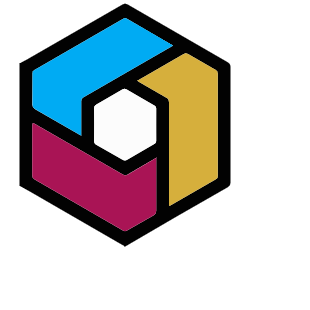
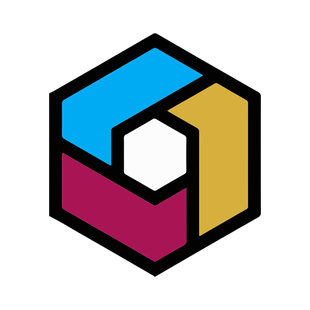
Store tile: the mark was in the corner of its canvas
The reader opened the file and saw it: spintax-mark-310.png had 212x244
of ink in a 310x310 canvas with margins L19 R79 T3 B63 -- the mark at the
top left, most of the bottom right empty. That file is what make-msix.py
builds the 310x310 and 310x150 tiles from, so the published package
carries an off-centre tile.

Only this file. spintax-mark-180.png, which the .ico comes from, is
centred, and measuring the .ico frames confirmed it: alpha centroid dead
centre in all thirteen. So the taskbar complaint earlier today and this
one look alike and are unrelated -- that one was Windows drawing a
smaller frame in the corner of a bigger cell, this one is our artwork
sitting in the corner of its own canvas.

Re-rendered from the vendored vector rather than nudged as pixels, at
twice the size and resampled down, so the tile is sharp: ink 212x244 kept
as it was, centred, margins L49 R49 T33 B33.

It reaches the Store with the next package, since tiles are generated at
submission time. Recorded in release-validation.md so the shipped state
is not mistaken for the corrected one.

Suite 8198 checks, 0 failed.

diff --git a/docs/TODO.md b/docs/TODO.md
@@ -151,7 +151,15 @@ is a deliberate state and not a backlog of things anyone forgot.
    session variables and are not saved with the document — the dialog says so, and so does the
    help.
 
-8. **The help got a document about the PRODUCT**, done 2026-08-06, and it is now the first
+8. **The Store tile was off-centre**, corrected 2026-08-06. `spintax-mark-310.png` — the file
+   `make-msix.py` builds the `310x310` and `310x150` tiles from — had the mark at the top left of
+   its canvas: 212×244 of ink in 310×310, margins L19 R79 T3 B63. The published package carries
+   it; the corrected tile ships with this version. The `.ico` was never affected (it is built
+   from `spintax-mark-180.png`, which is centred), and the app icon's own complaint was a
+   different thing entirely — Windows drawing a smaller frame in the corner of a bigger cell,
+   fixed by emitting the sizes the shell asks for.
+
+9. **The help got a document about the PRODUCT**, done 2026-08-06, and it is now the first
    thing in the contents. Until then the help described the LANGUAGE and the DIAGNOSTICS and
    never the program: a reader who opened it was told how to read an example before being told
    what the two panes are. The reader's complaint, in as many words. `docs/help/{en,ru}/studio.md`
@@ -163,7 +171,7 @@ is a deliberate state and not a backlog of things anyone forgot.
    cannot appear in prose.** Menu paths written `View → GSA import` were read by the suite as
    ungated examples and failed the build, which is the check working.
 
-9. **The About box says what the product is**, done 2026-08-06. It was the attribution notice
+10. **The About box says what the product is**, done 2026-08-06. It was the attribution notice
    and nothing else — the reader's words were "it tells you nothing about the product and looks
    broken, just technical" — and all three causes were in this repository rather than in
    NOTICE.md: the loudest thing on screen was the audit rubric `REQUIRES ATTRIBUTION IN THE

diff --git a/docs/release-validation.md b/docs/release-validation.md
@@ -18,6 +18,13 @@ The package was generated by `python scripts/make-msix.py`. The Store tile sourc
 `assets/brand/spintax-mark-310.png`; the generated role assets are `310x310` and `310x150`,
 so they meet the dimensions declared by the manifest.
 
+**The tile in the SHIPPED package is off-centre**, found 2026-08-06 by the reader looking at the
+file: the mark sat at the top left of its canvas with margins L19 R79 T3 B63 — 212×244 of ink in
+310×310. Only this file was affected; `spintax-mark-180.png`, which the `.ico` is built from, was
+centred all along, which is why the application's own icon looked right. Corrected in the tree by
+re-rendering from the vendored vector and centring (L49 R49 T33 B33); it reaches the Store with
+the next package, since tiles are built from this file at submission time.
+
 ## WACK
 
 Windows App Certification Kit was run against the exact MSIX candidate:
